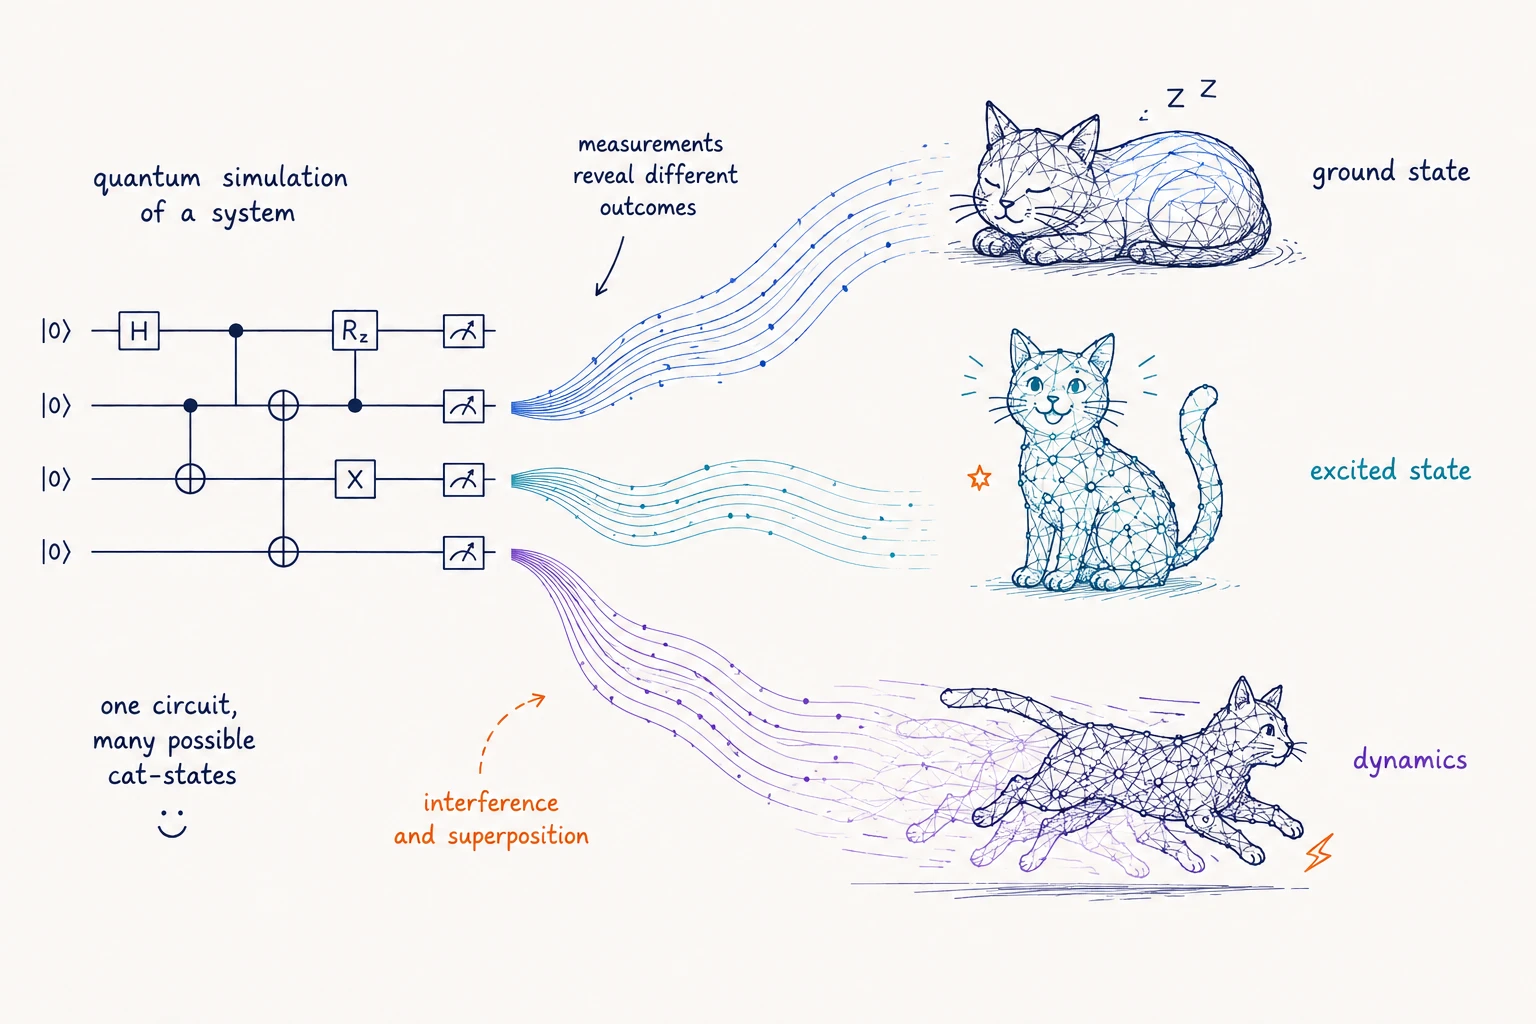
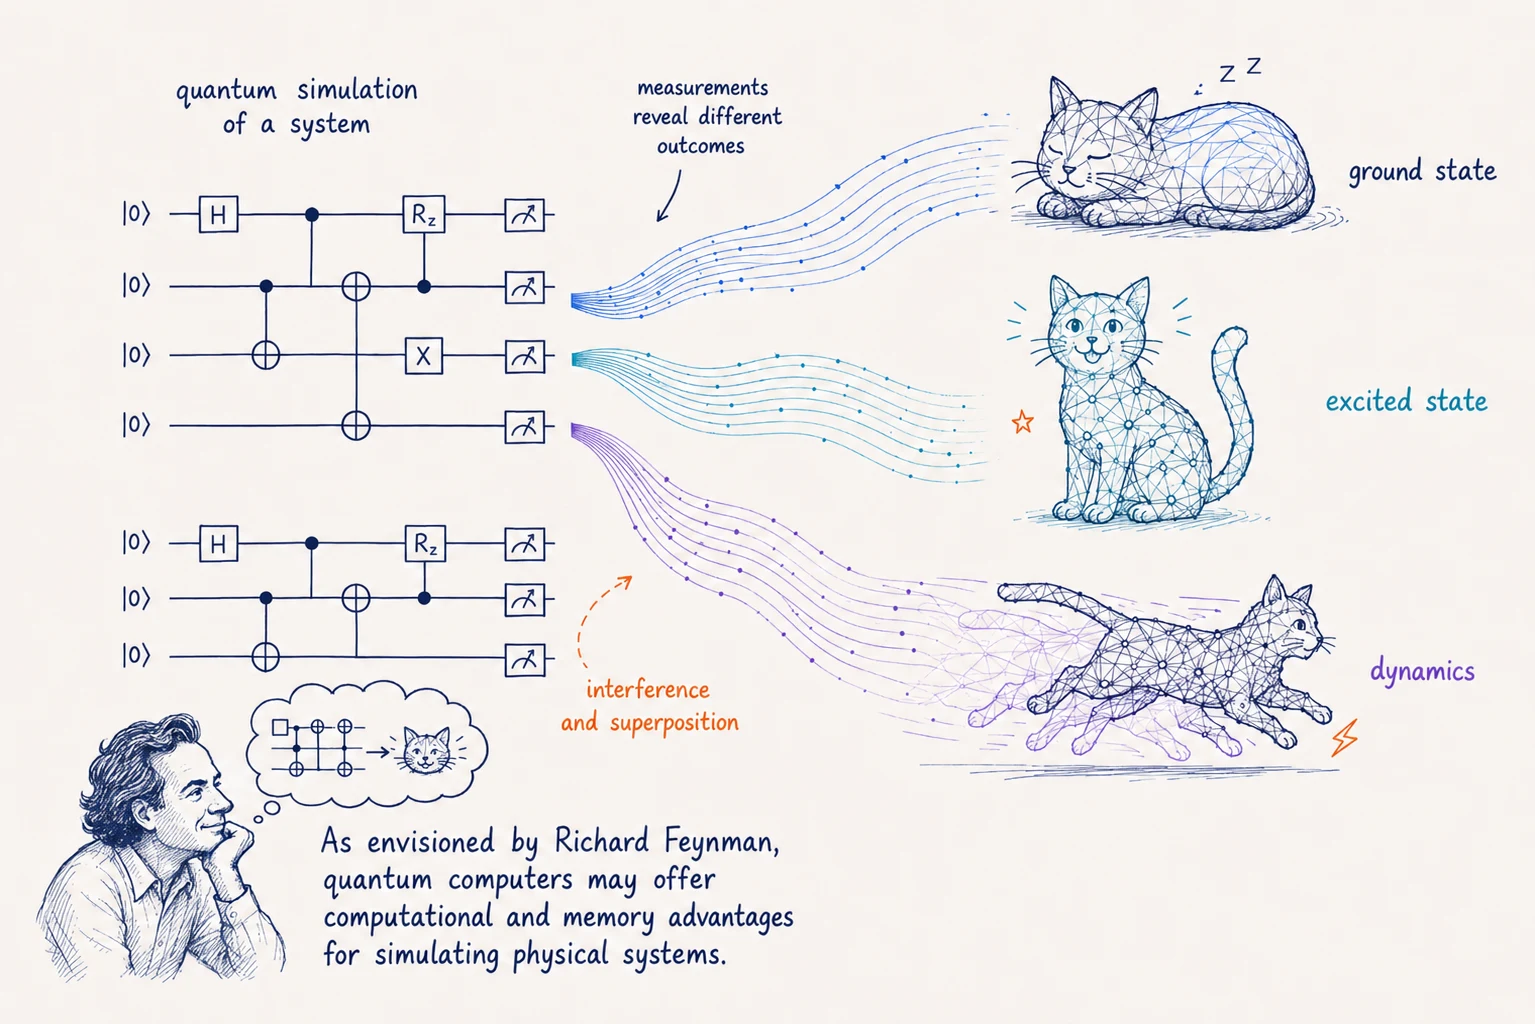
research: new quantum-simulation figure; complementary caption and alt text

diff --git a/_pages/research.md b/_pages/research.md
@@ -54,8 +54,8 @@ results that map the boundary between the classically tractable and the genuinel
 
 ## Quantum simulation of many-body and open systems
 
-<div class="rfig"><img src="{{ 'assets/img/research/simulation-states.webp' | relative_url }}" alt="One quantum circuit whose measurements reveal different outcomes — ground state, excited state, and dynamics — drawn as three cats." loading="lazy"></div>
-<div class="rcap">As Richard Feynman envisioned, quantum computers promise both computational and memory advantages for simulating quantum matter — bringing ground states, excited states, and real-time dynamics within reach of today’s devices.</div>
+<div class="rfig"><img src="{{ 'assets/img/research/simulation-states.webp' | relative_url }}" alt="Two quantum circuits whose measurements reveal different outcomes — ground state, excited state, and real-time dynamics — drawn as three cats, with Richard Feynman looking on." loading="lazy"></div>
+<div class="rcap">Different circuits reach different regimes: ground states, excited states, and real-time dynamics — and, once noise enters, phases that exist only in the open-system setting.</div>
 
 Today's processors are good enough to probe physics that is otherwise hard to reach. Using
 holographic (qubit-efficient) tensor-network circuits and trapped-ion hardware, I study
